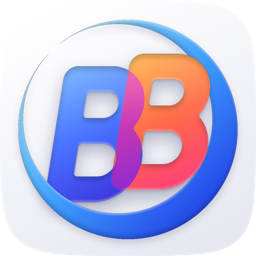
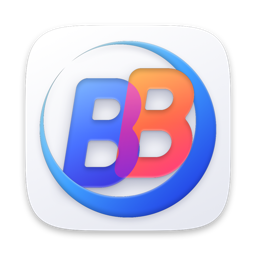
Give the README the family look shared with Boaz, Jimmy and Edison (#73)
Same icon grid and shadow, the same badge and call-to-action rows, a section linking the three apps, and a
matching social preview card in docs/assets/social-preview.png.

diff --git a/Tools/make-icon.swift b/Tools/make-icon.swift
@@ -11,7 +11,7 @@
 //       AppIcon-Tinted.png (iOS 1024) and mac-16 … mac-1024.png (macOS squircle on the Apple grid)
 //   Apps/Shared/Resources/Assets.xcassets/AppIcon-<Name>.appiconset/   one 1024 PNG + Contents.json per alternate
 //   Apps/iOS/Delight/IconPreviews/AppIcon[-<Name>]-Preview.png         180 px previews for Settings › App Icon
-//   docs/assets/icon.png                                                256 px README icon
+//   docs/assets/icon.png                                                256 px README icon (the macOS grid version)
 //   build/icon-contact-sheet.png                                        review sheet: 1024 tiles + 60/29 px rows
 import AppKit
 import UniformTypeIdentifiers
@@ -332,7 +332,7 @@ for px in [16, 32, 64, 128, 256, 512, 1024] {
     write(px == 1024 ? mac : scaled(mac, to: px, alpha: true), primaryDir.appendingPathComponent("mac-\(px).png"))
 }
 write(scaled(primaryArt, to: 180, alpha: false), previews.appendingPathComponent("AppIcon-Preview.png"))
-write(scaled(masked(primaryArt, inset: 0), to: 256, alpha: true), root.appendingPathComponent("docs/assets/icon.png"))
+write(scaled(mac, to: 256, alpha: true), root.appendingPathComponent("docs/assets/icon.png"))
 
 // Alternates.
 var sheet: [(String, CGImage)] = [("Default", primaryArt)]

diff --git a/README.md b/README.md
@@ -9,17 +9,16 @@
 On iPhone, the page fills the screen and opens where you left it, with your tabs, New Tab and the page menu
 within thumb reach and a layout that follows every posture of iPhone Duo. On the Mac, spaces that keep work, home and projects apart. Both stay in step through your private iCloud.
 
-[![CI](https://github.com/chenkahana/Boaz/actions/workflows/ci.yml/badge.svg?branch=master)](https://github.com/chenkahana/Boaz/actions/workflows/ci.yml)
 ![iOS 27.1+](https://img.shields.io/badge/iOS-27.1%2B-000000?logo=apple)
 ![macOS 26+](https://img.shields.io/badge/macOS-26%2B-000000?logo=apple)
 ![Swift 6](https://img.shields.io/badge/Swift-6-F05138?logo=swift&logoColor=white)
-[![License](https://img.shields.io/badge/license-MPL--2.0-brightgreen)](LICENSE)
-[![PRs welcome](https://img.shields.io/badge/PRs-welcome-6E4BFF)](CONTRIBUTING.md)
+[![License: MPL-2.0](https://img.shields.io/badge/license-MPL--2.0-blue)](LICENSE)
+[![CI](https://github.com/chenkahana/Boaz/actions/workflows/ci.yml/badge.svg?branch=master)](https://github.com/chenkahana/Boaz/actions/workflows/ci.yml)
+[![PRs welcome](https://img.shields.io/badge/PRs-welcome-brightgreen)](CONTRIBUTING.md)
 
-[![Download on the App Store](https://img.shields.io/badge/App_Store-iPhone_%26_Mac-0D96F6?style=for-the-badge&logo=appstore&logoColor=white)](https://apps.apple.com/app/boaz-browser/id6832646304)
-[![Download for Mac](https://img.shields.io/badge/Download_for_Mac-Boaz.dmg-6E4BFF?style=for-the-badge&logo=apple)](https://github.com/chenkahana/Boaz/releases/latest/download/Boaz.dmg)
+[![Download on the App Store](https://img.shields.io/badge/App_Store-iPhone_%26_Mac-6E4BFF?style=for-the-badge&logo=appstore&logoColor=white)](https://apps.apple.com/app/boaz-browser/id6832646304) [![Download for Mac](https://img.shields.io/badge/Download-Boaz.dmg-111111?style=for-the-badge&logo=apple&logoColor=white)](https://github.com/chenkahana/Boaz/releases/latest/download/Boaz.dmg) [![Website](https://img.shields.io/badge/Website-chenkahana.com%2Fboaz-111111?style=for-the-badge&logo=safari&logoColor=white)](https://chenkahana.com/boaz)
 
-[Website](https://chenkahana.com/boaz) · [Features](#features) · [Screenshots](#screenshots) · [Architecture](#architecture) · [Getting started](#getting-started) · [Privacy](#privacy) · [Contributing](#contributing)
+[Features](#features) · [Screenshots](#screenshots) · [Architecture](#architecture) · [Getting started](#getting-started) · [Privacy](#privacy) · [Contributing](#contributing)
 
 <img src="docs/assets/hero.png" alt="Boaz on Mac and iPhone" width="900">
 
@@ -197,6 +196,21 @@ Contributions are welcome, from a typo fix to a new feature.
 - Questions: see [SUPPORT.md](SUPPORT.md).
 
 Everyone taking part follows the [Code of Conduct](CODE_OF_CONDUCT.md).
+
+## The family
+
+Boaz, Jimmy and Edison are made by one independent developer, on the same principles: native Swift and SwiftUI,
+private by design (no accounts, analytics or tracking), and open source under the Mozilla Public License 2.0.
+
+<table>
+  <tr>
+    <td align="center" width="33%"><a href="https://github.com/chenkahana/Boaz"><img src="https://raw.githubusercontent.com/chenkahana/Boaz/master/docs/assets/icon.png" width="88" alt="Boaz app icon"></a><br><b><a href="https://github.com/chenkahana/Boaz">Boaz</a></b><br><sub>A calm web browser for iPhone and Mac</sub></td>
+    <td align="center" width="33%"><a href="https://github.com/chenkahana/Jimmy"><img src="https://raw.githubusercontent.com/chenkahana/Jimmy/main/docs/assets/icon.png" width="88" alt="Jimmy app icon"></a><br><b><a href="https://github.com/chenkahana/Jimmy">Jimmy</a></b><br><sub>A queue-centric podcast player for iPhone</sub></td>
+    <td align="center" width="33%"><a href="https://github.com/chenkahana/Edison"><img src="https://raw.githubusercontent.com/chenkahana/Edison/main/docs/assets/icon.png" width="88" alt="Edison app icon"></a><br><b><a href="https://github.com/chenkahana/Edison">Edison</a></b><br><sub>Clipboard history and screenshots for Mac</sub></td>
+  </tr>
+</table>
+
+<p align="center"><sub>More at <a href="https://chenkahana.com">chenkahana.com</a></sub></p>
 
 ## License
 
